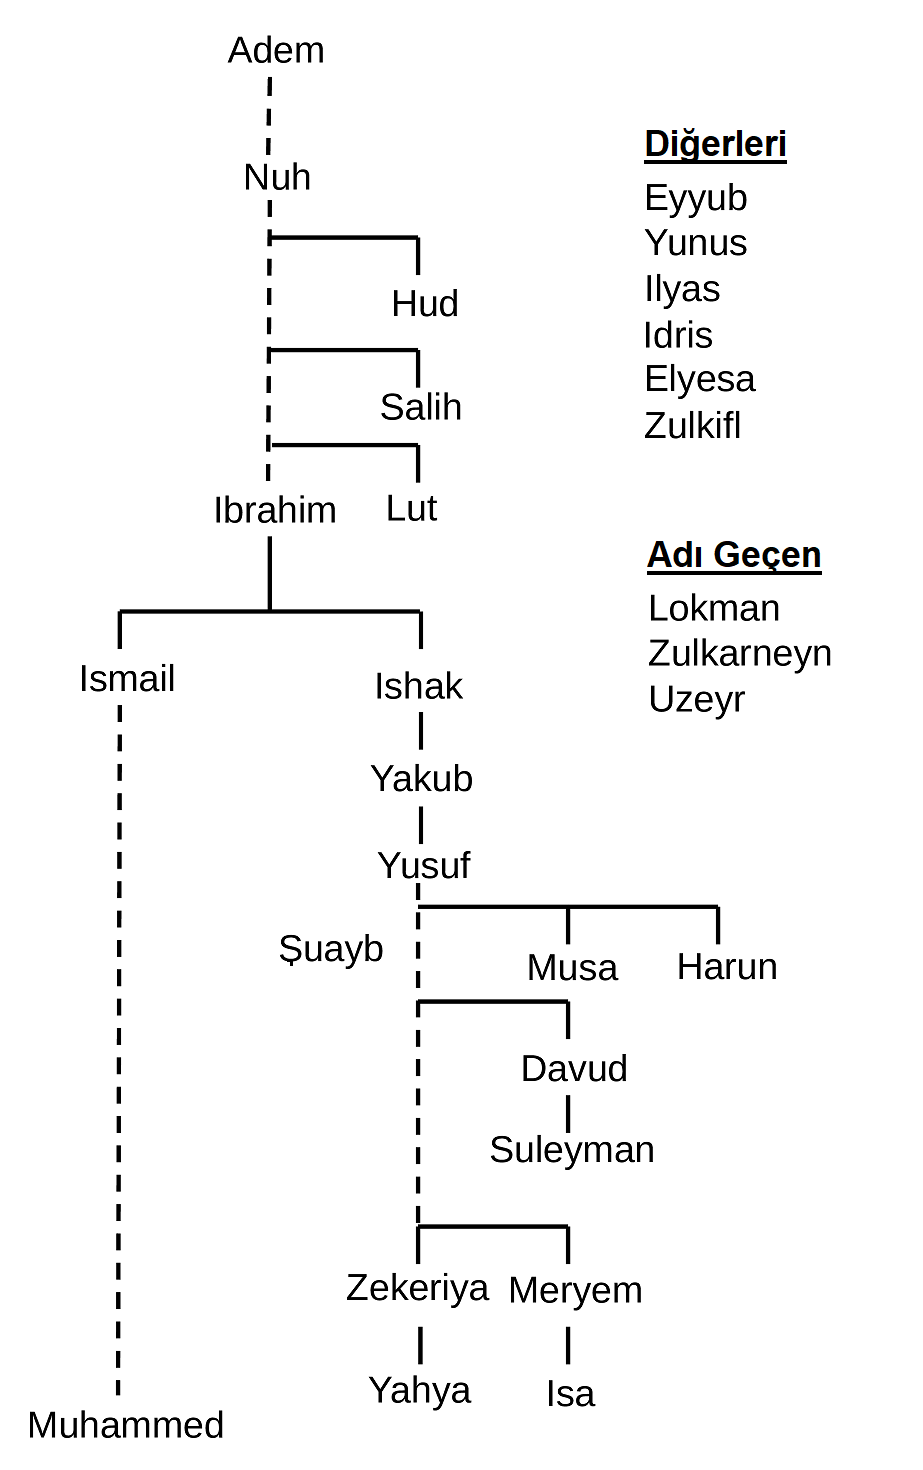
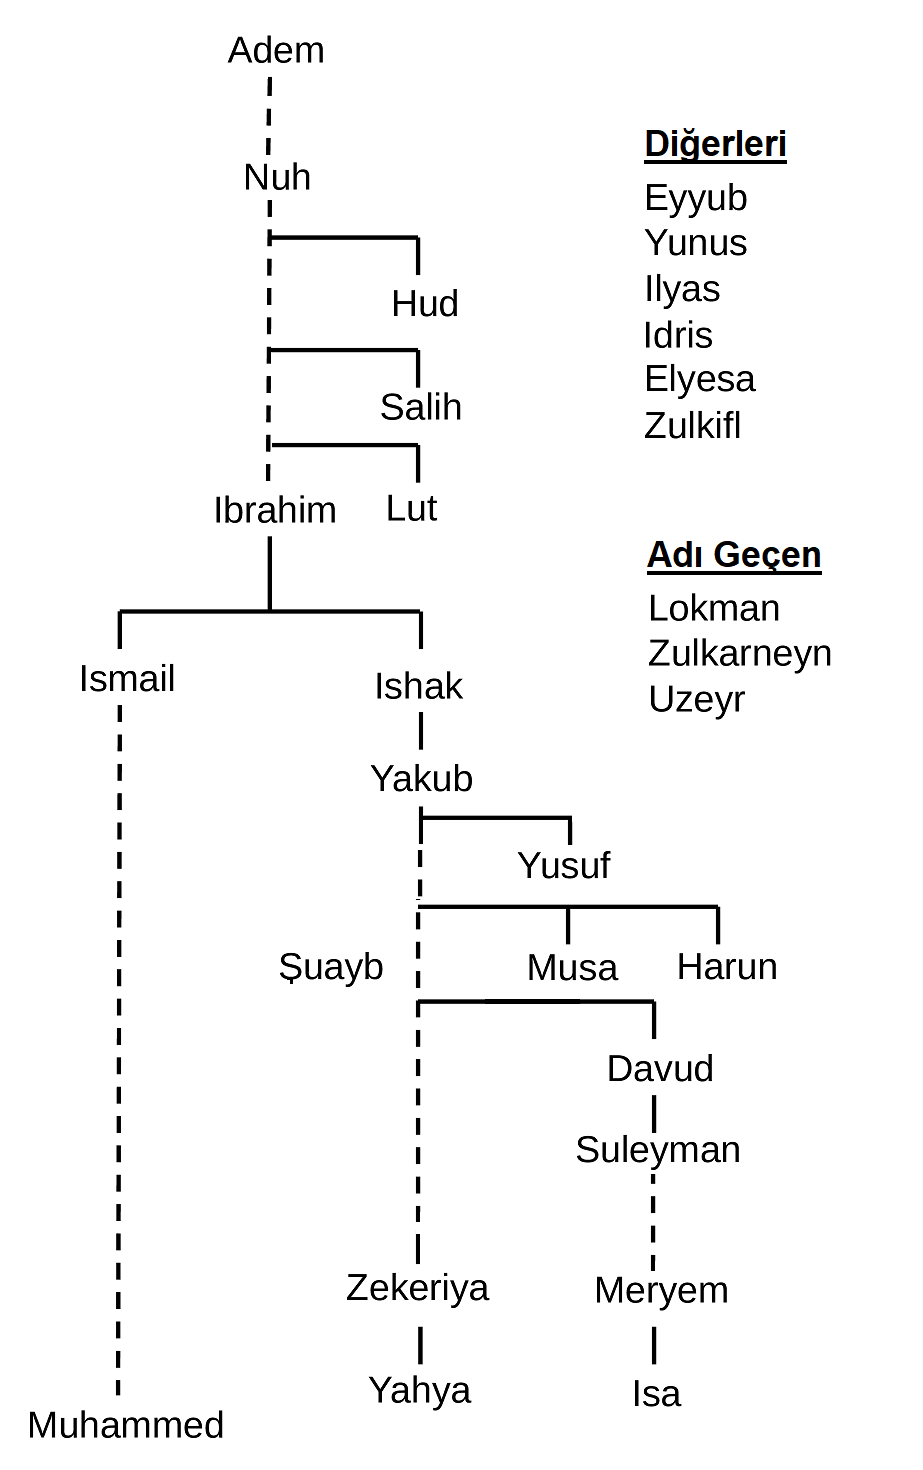
modify ders/enbiya

diff --git a/ders/enbiya.html b/ders/enbiya.html
@@ -25,7 +25,7 @@
 "use strict";
 const DATA =
 `Öncekiler
-Âdem	A^dam	2:31 2:33 2:34 2:35 2:37 3:33 3:59 5:27 7:11 7:19 7:26 7:27 7:31 7:35 7:172 17:61 17:70 18:50 19:58 20:115 20:116 20:117 20:120 20:121 36:60
+Âdem	A^dam	2:31 2:33 2:34 2:35 2:37 3:33 3:59 7:11 7:19 17:61 18:50 19:58 20:115 20:116 20:117 20:120 20:121 <br>Benî Âdem 5:27 7:26 7:27 7:31 7:35 7:172 17:70 36:60
 Nûh	nuwH	3:33 4:163 6:84 7:59 7:69 9:70 10:71 11:25 11:32 11:36 11:42 11:45 11:46 11:48 11:89 14:9 17:3 17:17 19:58 21:76 22:42 23:23 25:37 26:105 26:106 26:116 29:14 33:7 37:75 37:79 38:12 40:5 40:31 42:13 50:12 51:46 53:52 54:9 57:26 66:10 71:1 71:21 71:26
 Hûd	hwd	7:65 11:50 11:53 11:58 11:60 11:89 26:124
 Sâlih	SlH	7:73 7:75 7:77 11:61 11:62 11:66 11:89 26:142 27:45
@@ -34,7 +34,7 @@ Lût	luwT	6:86 7:80 11:70 11:74 11:77 11:81 11:89 15:59 15:61 21:71 21:74 22:43 
 İbrâhîm	<iboraAhiym	2:124 2:125 2:126 2:127 2:130 2:132 2:133 2:135 2:136 2:140 2:258 2:260 3:33 3:65 3:67 3:68 3:84 3:95 3:97 4:54 4:125 4:163 6:74 6:75 6:83 6:161 9:70 9:114 11:69 11:74 11:75 11:76 12:6 12:38 14:35 15:51 16:120 16:123 19:41 19:46 19:58 21:51 21:60 21:62 21:69 22:26 22:43 22:78 26:69 29:16 29:31 33:7 37:83 37:104 37:109 38:45 42:13 43:26 51:24 53:37 57:26 60:4 87:19
 İsmâîl	<isomaAEiyl	2:125 2:127 2:133 2:136 2:140 3:84 4:163 6:86 14:39 19:54 21:85 38:48
 İshâk	<isoHaAq	2:133 2:136 2:140 3:84 4:163 6:84 11:71 12:6 12:38 14:39 19:49 21:72 29:27 37:112 37:113 38:45
-Ya‘kûb	yaEoquwb	2:132 2:133 2:136 2:140 3:84 4:163 6:84 11:71 12:6 12:38 12:68 19:6 19:49 21:72 29:27 38:45 İsrâîl 3:93 19:58
+Ya‘kûb	yaEoquwb	2:132 2:133 2:136 2:140 3:84 4:163 6:84 11:71 12:6 12:38 12:68 19:6 19:49 21:72 29:27 38:45 İsrâîl 3:93 19:58 <br>Benî İsrâîl 2:40 2:47 2:83 2:122 2:211 2:246 3:49 3:93 5:12 5:32 5:70 5:72 5:78 5:110 7:105 7:134 7:137 7:138 10:90 10:93 17:2 17:4 17:101 17:104 20:47 20:80 20:94 26:17 26:22 26:59 26:197 27:76 32:23 40:53 43:59 44:30 45:16 46:10 61:6 61:14
 Yûsuf	yuwsuf	6:84 12:4 12:7 12:8 12:9 12:10 12:11 12:17 12:21 12:29 12:46 12:51 12:56 12:58 12:69 12:76 12:77 12:80 12:84 12:85 12:87 12:89 12:90 12:94 12:99 40:34
 Sonrakiler
 Şu‘ayb	$uEayob	7:85 7:88 7:90 7:92 11:84 11:87 11:91 11:94 26:177 29:36
